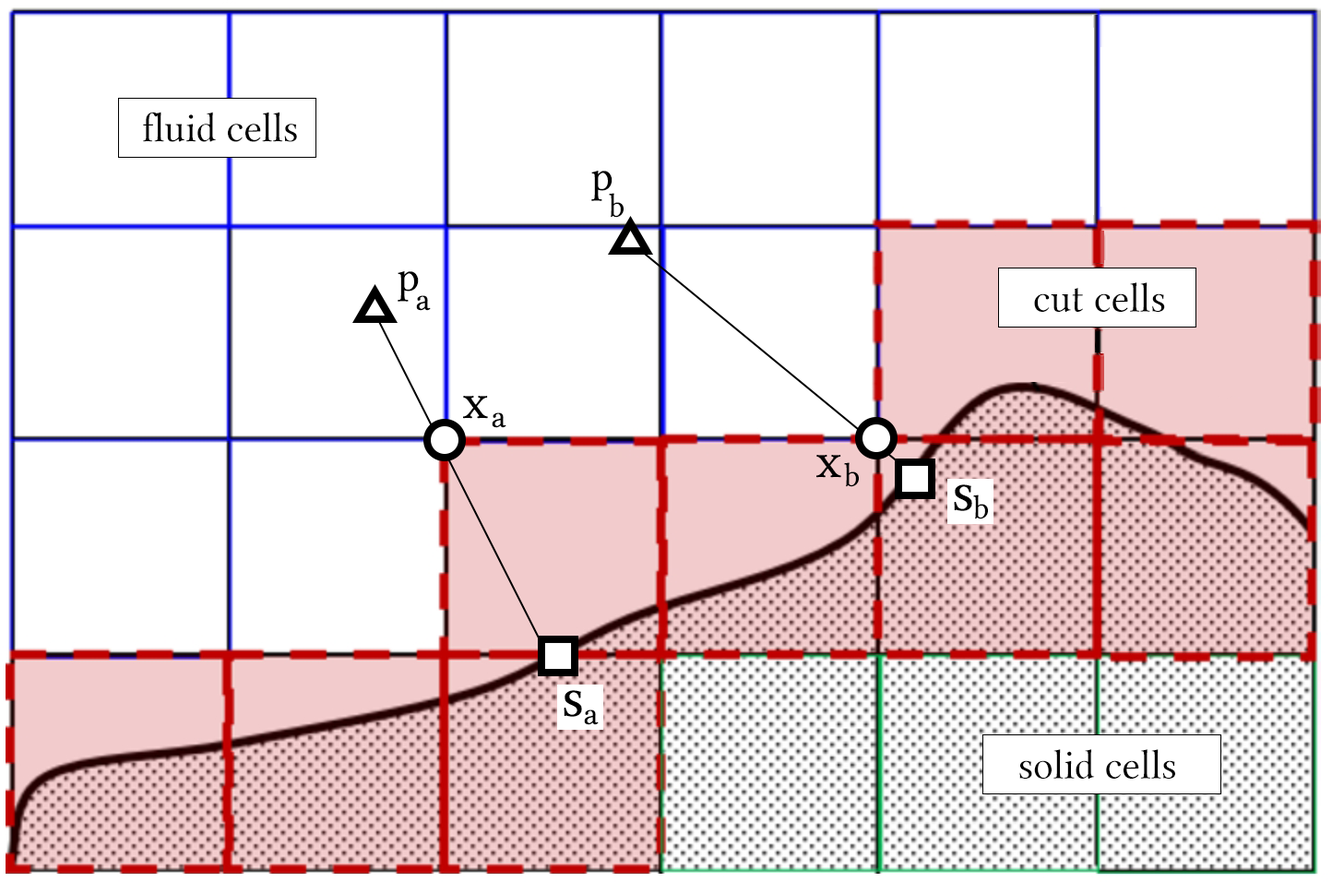
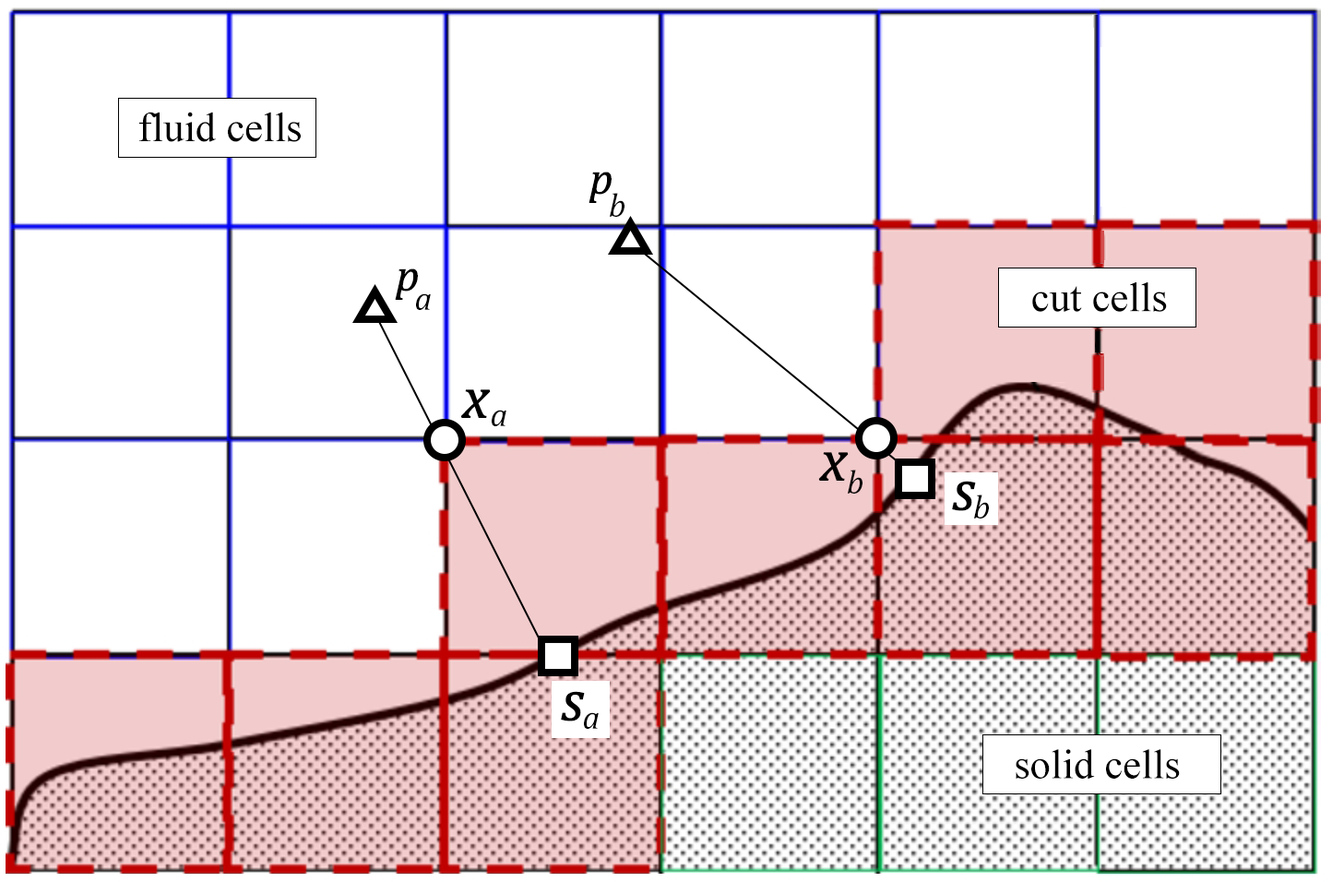
-

diff --git a/contents/c4_auto_boundary.tex b/contents/c4_auto_boundary.tex
@@ -1,8 +1,9 @@
-\chapter{更加通用的高精度流体仿真方法}
+\chapter{高精度多分辨率介观流体仿真方法}
 \label{chap:sig23}
-我们在上一章中已经描述了可以处理复杂几何边界的LBM方法，其高效、灵活的特点使其非常适合于图形学与视觉动画领域。而还有许多领域需要更精准的流体仿真，其中的一个典型流域就是实验流体力学中的风洞实验。风洞实验是进行空气动力实验最常用、最有效的工具，在发现空气动力学新现象、揭示流动机理、研制新型飞行器、评估飞行器的性能等方面发挥了极其重要的作用。自然，通过计算机流体仿真替代实际风洞实验是非常诱人的。但是对于这一目标，上一章所描述的方法并不能满足要求，其中有几个原因。
+我们在上一章中已经描述了可以处理复杂几何边界的LBM方法，其高效、灵活的特点使其非常适合于图形学与视觉动画领域。而还有许多领域需要更精准的流体仿真，其中的一个典型流域就是实验流体力学中的风洞实验。风洞实验是进行空气动力实验最常用、最有效的工具，在发现空气动力学新现象、揭示流动机理、研制新型飞行器、评估飞行器的性能等方面发挥了极其重要的作用。自然，通过计算机流体仿真替代实际风洞实验是非常诱人的。虽然现有的N-S求解方法可以进行精准物理量计算，但在实际操作中，绝大部分计算都需要通过求解稳态流获得，因为N-S方法求解瞬态流的效率很低，很难大规模应用于瞬态流。但是瞬态流仿真不仅对于视觉动画是必要的，对于高精度声场或表面压力变化求解等，也是不可或缺的。
 
-第一是，第~\ref{chap:siga21} 章所描述的混合方法虽然高效，但在真实的风洞实验中，物体周围的边界层已经非常薄，远小于网格大小，从而在网格层面假设速度是线性的已经不够精确。第二，在这样的尺度下，我们已经无法单纯地依靠提高分辨率，以解决这一问题，而必须依赖于多分辨率网格，在上一章中的方法并没有涉及相关的处理。第三，对于工业应用，碰撞模型等LBM的核心算法，对结果也有着至关重要的影响，而这一点在上一章中也未有足够的讨论。所以在这一章中我们将介绍一个更加通用的高精度流体仿真方法，并更专注于一些实际工业产品设计与验证等应用。更具体地，我们尝试将现实中工业产品设计中非常常见的风洞实验，通过流体仿真的形式数字化。所以在下文中，我们也可将本章中描述的方法称为基于LBM的虚拟风洞测试系统。这个目标使我们不只局限于边界处理等方法本身，还需要整体的仿真框架配合。从而在本章中，我们将更为整体地描述整个仿真框架。当然同时我们也可以将这一系列方法应用在图形学中，相关的结果将在第~\ref{chap:results} 章中展示。
+上一章中所描述的方法虽然可以高效地完成瞬态流求解，但是其并不能满足在这些领域对精度的要求，其中有几个原因。
+第一，第~\ref{chap:siga21} 章所描述的混合方法虽然高效，但在真实的风洞实验中，物体周围的边界层已经非常薄，远小于网格大小，从而在网格层面假设速度是线性的已经不够精确。第二，在这样的尺度下，我们已经无法单纯地依靠提高分辨率，以解决这一问题，而必须依赖于多分辨率网格，在上一章中的方法并没有涉及相关的处理。第三，对于工业应用，碰撞模型对结果在精度、稳定性与收敛性上有着至关重要的影响，而这一点在上一章中也未有足够的讨论。所以在这一章中我们将介绍一个高精度多分辨率介观流体仿真方法，并更专注于一些实际工业产品设计与验证等应用。更具体地，我们尝试将现实中工业产品设计中非常常见的风洞实验，通过流体仿真的形式数字化。所以在下文中，我们也可将本章中描述的方法称为基于LBM的虚拟风洞测试系统。这个目标使我们不只局限于边界处理等方法本身，还需要整体的仿真框架配合。从而在本章中，我们将更为整体地描述整个仿真框架。当然同时我们也可以将这一系列方法应用在图形学中，相关的结果将在第~\ref{chap:results} 章中展示。
 
 % Sec 4.1
 \section{背景与动机}
@@ -18,7 +19,7 @@
 
 虽然LBM已经在许多的验证实验中取得了不错的结果，但在一些比较有挑战性的计算问题上 (如球的阻力危机、复杂几何的物理量计算)，依然有一定的误差。而从方法上。首先针对于碰撞模型，我们在第~\ref{sec:collision_selection} 节中已经讨论了碰撞模型的选择问题。在超高雷诺数高分辨率仿真中，自适应中心矩模型并不能保证稳定。相比自适应中心矩模型，累积量碰撞模型在理论上有着一定的稳定性与精度优势。但现有的累积量模型也存在高阶松弛系数难以确定的问题。所以通过一定的方式确定累积量模型的高阶松弛系数可以进一步提升累积量碰撞模型的能力，进而提升整体仿真的精度与稳定性。
 
-其次，对于边界处理，为了捕捉超高雷诺数环境下的边界层，我们认为至少二阶精度的边界处理是必要的，如插值反弹边界。但在实际测试中，具体的构造形式仍然对边界的精度有很大影响~\citep{Chen-2021-b}。我们认为通过更好地构造单点插值边界处理的形式，边界处理的精度也可以进一步提升。
+其次，对于边界处理，为了捕捉超高雷诺数环境下的边界层，我们认为至少二阶精度的边界处理是必要的，如插值反弹边界。并且由于计算资源与时间的限制，分辨率不可能无限制地提升。基于现有的硬件资源，在超高雷诺数下，令网格小于边界层厚度是十分困难的。这种情况下单点插值反弹边界因为求解的局部性，更适合处理处理这样的情况。但在实际测试中，单点插值反弹边界具体的构造形式仍然对边界的精度有很大影响~\citep{Chen-2021-b}。我们认为通过更好地构造单点插值边界处理的形式，边界处理的精度也可以进一步提升。
 
 最后，为了在有限的计算资源下能实现高分辨率仿真，多分辨率网格是必要的。然而目前要构造多分辨率网格，依然需要耗费很多人工的工作。虽然有工作介绍了一些自动化网格构建的标准~\citep{THORIMBERT2022101864}，但是面向复杂几何与高精度物理量计算的自动网格构造方法仍然没有被充分讨论过。自动的多分辨率网格构造对提升整个方法的易用性是十分关键的。
 
@@ -28,16 +29,16 @@
 
 我们的系统相比于现有的LBM主要包含以下四个方面的改进：
 \begin{itemize}
-	\item 我们对累积量碰撞模型通过应用局部熵值的最大化的原则进行了改进。改进后的碰撞模型在精度上有所提升，并可在$10^8$级别的雷诺数下保持稳定； 
-	\item 我们提出了一个新的单点插值反弹边界来处理静态与动态物体边界，可以更精准地求解边界层流场；
-	\item 我们提出了一个多分辨率网格构建算法，以自动且灵活地构建多分辨率网格，该方法可以在不需花费过多人工前处理的情况下，完成高分辨率流体仿真；
-	\item 我们还提出了一系列的GPU优化，进一步提升运算效率。
+	\item 我们对累积量碰撞模型通过应用局部熵值的最大化的原则进行改进。改进后的碰撞模型在精度上有所提升，并可在$10^8$级别的雷诺数下保持稳定； 
+	\item 我们提出一个新的单点插值反弹边界来处理静态与动态物体边界，可以更精准地求解边界层流场；
+	\item 我们提出一个多分辨率网格构建算法，以自动且灵活地构建多分辨率网格，该方法可以在不需花费过多人工前处理的情况下，完成高分辨率流体仿真；
+	\item 我们还提出一系列的GPU优化，进一步提升运算效率。
 \end{itemize}
 
 我们将在下面依次介绍这四部分内容。
 
 \subsection{累积量碰撞模型的高阶松弛系数优化}
-在碰撞过程中，高阶松弛系数对仿真 (尤其是湍流仿真) 有着很大的影响。\citet{Li-2020} 讨论了在中心矩碰撞方法中，进行高阶松弛系数优化的方法。作者通过回归方法，自适应地调整参数，降低了数值色散和耗散误差，提高了数值精度。于是我们希望同样将高阶松弛系数的优化引入累积量碰撞模型中。由于累积量模型的空间变换是非线性的，我们无法直接应用~\citep{Li-2020} 中的回归方法，或~\citep{Kramer-2019} 中的熵优化方法。但是，我们可以通过一定的推导，将~\citep{Kramer-2019} 中的熵优化方法推广至累积量碰撞模型中。下面我们介绍推导过程。
+在碰撞过程中，高阶松弛系数对仿真 (尤其是湍流仿真) 有着很大的影响，但在累积量模型中，4阶及更高阶的松弛系数并没有有效的约束。一个自然的想法是将现有的一些高阶松弛系数优化方法引入累积量模型，从而进一步提升其精度与稳定性。我们在第~\ref{sec:background_acmmrt} 节中讨论了一些典型的高阶松弛系数优化的方法，但是由于累积量模型的空间变换是非线性的，我们无法直接应用~\citep{Li-2020} 中的回归方法，或~\citep{Kramer-2019} 中的熵优化方法。所以在本节中，我们通过一定的推导，将~\citep{Kramer-2019} 中的熵优化方法推广至累积量碰撞模型中。下面我们介绍推导过程。
 
 % 首先，我们先介绍熵优化的基本思想。分布函数的平衡态$f^\text{eq}_i$可以使熵函数$H(f_i)$取得最大值 (在密度、动量保持不变的前提下)。该熵函数$H(f_i)$定义为
 % \begin{equation}
@@ -52,7 +53,7 @@
 % \end{equation}
 % 该式为$H(\bm{f})$在全局平衡态$f_i^{\mathrm{eq}}(\rho=1, \mathbf{u}=0)=\omega_i$处的泰勒展开。
 
-我们回顾，在分布函数$\bm{f}\!=\!\{f_i\}$与中心矩$\bm{m}\!=\!\{m_i\}$之间存在线性变换关系：$\bm{f}\!=\!\bm{T}\bm{m}$。但与中心矩变换不同，累积量变换是非线性的，所以在累积量碰撞模型中应用熵优化依然是非常复杂的。不过我们通过仔细观察后，可以发现在中心矩$m_{\alpha\beta\gamma}$与累积量$k_{\alpha\beta\gamma}$之间有着关键的联系：当阶数$p\!\leq\!3$时，累积量与中心矩是完全相等的，而高阶累积量是对应的中心矩以及其它中心矩的和 (见第~\ref{sec:cumulant} 节)。由于0-2阶的累积量在碰撞过程中需要根据物理规律来确定松弛系数，3阶累积量的松弛系数在~(\citep{Geier-2017} 中已有过优化方法，我们可以基于此推导使熵最大化的高阶累积量松弛系数的解析解。
+我们回顾，在分布函数$\bm{f}\!=\!\{f_i\}$与中心矩$\bm{m}\!=\!\{m_i\}$之间存在线性变换关系：$\bm{f}\!=\!\bm{T}\bm{m}$。但与中心矩变换不同，累积量变换是非线性的，所以在累积量碰撞模型中应用熵优化依然是非常复杂的。不过我们通过仔细观察后，可以发现在中心矩$m_{\alpha\beta\gamma}$与累积量$k_{\alpha\beta\gamma}$之间有着关键的联系：当阶数$p\!\leq\!3$时，累积量与中心矩是完全相等的，而高阶累积量是对应的中心矩以及其它中心矩的和 (见第~\ref{sec:cumulant} 节)。由于0-2阶的累积量在碰撞过程中需要根据物理规律来确定松弛系数，3阶累积量的松弛系数在~\citep{Geier-2017} 中已有过优化方法，我们可以基于此推导使熵最大化的高阶累积量松弛系数的解析解。
 
 我们用$\bm{k}_l=\{k_l, l\!\in\!\mathcal{L}\}$表示3阶及以下的累积量，如上述，这些累积量的松弛系数是已知的。
 接下来我们可以将剩余的累积量，即4到6阶的，表示为$\bm{k}=\{k_h, h\!\in\!\mathcal{H}\}$。那么，伪熵的最大化问题可以被写作
@@ -103,9 +104,9 @@
 \end{equation}
 至此，我们得到了D3Q27网格结构下，通过熵优化进行累积量碰撞模式进行高阶松弛系数优化的方法。该方法可以通过一个简单的线性求解得到$\bm{k}_h$，并且由于有解析解的存在，在求解的过程中并没有过高的计算代价。为了避免数值偏移，优化后的累积量要被限制于平衡态和碰撞前的数值之间。剩余的碰撞过程与第~\ref{sec:cumulant} 节中的描述一致。
 
-\subsection{单点插值反弹边界处理}
-\paragraph{静态边界处理}
-\begin{figure}[htb]
+在引入熵优化之前，碰撞过程的唯一约束是维持质量与动量的守恒。熵优化为碰撞过程提供了额外的约束，使其更符合物理规律~\citep{Tang-2022}。同时熵优化在介观上使碰撞后的分布函数更加贴近平衡态，使得仿真更加稳定。这与我们的数值测试结果大致相符。我们使用熵优化后的累积量碰撞模型对流体流过光滑球的情况进行数值测试，结果显示，当雷诺数较低时，我们的方法可以更贴近测试中的理论值，而雷诺数较高的时候，可以减少数值误差带来的扰动，具体测试见第~\ref{sec:4_comp} 节。
+
+\begin{figure}[tb]
   \centering
     \includegraphics[width=0.6\columnwidth]{figures/boundary.png}
   \bicaption[固体附近的边界处理]{固体附近的边界处理。对于切削网格点 (图中标为橘色)，它们的未知分布函数必须要通过边界处理决定。图中黄色点为固体内部点，青色点为流体点。对于$\bm{x}_b$点，$q$表达该点沿$\bm{c}_i$方向到边界的归一化距离，其中$\bm{c}_{\bar{i}}$为$\bm{c}_i$的反方向。}{Boundary treatment near solid object. For ``cut-cell'' boundary nodes marked in orange, their unknown distribution functions must be determined through boundary schemes instead of the regular streaming. Yellow nodes mark nodes inside the solid while cyan nodes are fluids nodes. Our boundary treatment for a node $\bm{x}_b$ uses the normalized distance $q$ to the boundary surface along a link direction of $\bm{c}_i$ with its inverse direction denoted as $\bm{c}_{\bar{i}}$.}
@@ -119,6 +120,8 @@
 	\label{img:bnd_comp}
   \end{figure}
 
+\subsection{单点插值反弹边界处理}
+\paragraph{静态边界处理}
 在虚拟风洞的绝大多数情况中，目的都是对某个物体进行气动的性能测试。所以在虚拟风洞的应用中，边界处理的重要性是不言而喻的。
 我们在第~\ref{sec:boundary_treatment} 节中已经讨论了简单反弹边界和插值反弹边界的形式。其中简单反弹边界虽然构造形式非常简单，但是在边界形状复杂时，一般只有一阶精度。从而在计算固体受力时，误差及波动是非常剧烈的 (见图~\ref{img:bnd_comp} 中展示的风在高雷诺数下吹过球时，球的阻力系数$C_\text{d}$变化)。
 插值反弹边界~\citep{Bouzidi-2001} 与其之后的变体~\citep{Yu-2003, Ginzburg-2003, Chun-2007} 则可以使边界求解的精度达到二阶或更高。然而，这些边界处理方法均需要相邻点的参与，使得计算不再完全局部。由于GPU并行计算中，不连续数据访问对并行效率有很大影响，这样的边界处理在GPU计算上的效率有所降低。此外，当边界点周围均为边界时，找不到相邻点会使这样的边界处理方法失效。
@@ -156,12 +159,14 @@ f_i(\bm{x}_b, t\!+\!1) &= f^\text{eq}_i(\bm{x}_b, t\!+\!1) + f^\text{neq}_{i}(\b
 &= \frac{1}{1\!+\!q}f_{i}^\text{eq}(\bm{u}_w(t), \rho_b(t)) + \frac{q}{1\!+\!q}f^{*}_{i}(\bm{x}_b, t) + f^\text{neq}_{\bar{\imath}}(\bm{x}_b, t).\nonumber
 \end{align}
 
+在避免了平衡态构建中的数值截断后，我们新的单点插值反弹边界方法可以在维持局部计算的优势的同时，更加精准地求解湍流边界层。这可以在超高雷诺数仿真中有效提升物理量计算的精度。在第~\ref{sec:4_comp} 节中，我们展示该方法与现有方法的定性对比。在第~\ref{sec:result_industrial} 节中，我们展示一系列基于我们新的边界处理得到的仿真结果，及与实验的定量对比，进一步验证我们方法的精度。
+
 \paragraph{动态耦合}
 虚拟风洞中也需要一部分动态的单向耦合，如汽车仿真时轮胎的旋转。
 之前的LBM通常结合格点重填与反弹边界条件~\citep{Tao-2016}，或使用浸没边界法~\citep{Li-2016, Li-2020}进行动态耦合。
 但格点重填结合反弹边界条件的方法在高雷诺数仿真中会在边界周围产生不正常的速度。而浸没边界法虽然更容易实现，但因为只有一阶精度，则达到同样精度需要更高的分辨率进行仿真，从而消耗更多的资源。
 为了保证在薄边界层上保证更高的精度，在动态耦合时，我们依然应用上述的静态边界处理方法，不同点是现在各个切削速度方向的$\bm{u}_w$都需要求解。为了避免格点重填，我们依然使用浸没的模式来处理边界，即所有的格点我们都认为是流体点，没有固体点。当然我们注意到，要在每个时间步都进行求交并求解边界的速度，通常需要进行层级搜索~\citep{Karras-2012}，而当分辨率非常高时，在GPU上进行这样的操作非常耗时。
-于是我们提出了相应的GPU实现，以减轻求交与动态耦合的计算开销。这些算法我们在第~\ref{sec:sig23_alg_optimal} 节中介绍。
+于是我们提出相应的GPU实现，以减轻求交与动态耦合的计算开销。这些算法我们在第~\ref{sec:sig23_alg_optimal} 节中介绍。
 
 \paragraph{仿真域边界处理}
 在固体边界之外，还有一些边界也需要进行处理，其中一类就是仿真域边界。仿真域的边界同样对仿真得到的物理量有很大影响。我们在实现时使用了滑移边界条件 (slipping boundary conditions) 来处理入口与出口之外的仿真域边界。虽然有多种方法可以实现滑移边界~\citep{Kruger-2016}，但这些方法的精度不足以在强湍流中准确求解仿真域边界处的流体，并会对物体附近的流体产生影响。于是我们需要扩大仿真域来减轻其影响，但这样会额外增加仿真的时间和存储成本。
@@ -189,13 +194,16 @@ f_i(\bm{x}_b, t\!+\!1) &= f^\text{eq}_i(\bm{x}_b, t\!+\!1) + f^\text{neq}_{i}(\b
 \end{equation}
 注意因为我们使用了浸没的思想，所以所有的切削网格点都应被视为边界点。
 
+\paragraph{讨论}
+值得讨论的一点是，我们在地面处理上使用了壁面函数，而在物体边界上我们没有采用。很关键的一个原因是，壁面函数本质上是一个经验函数，而与平整的地面不同，物体边界可能是任意几何，而壁面函数的建模很难适用于任意复杂几何形状。此外，宏观量的插值不仅在计算上提升了显存的吞吐量 (需要访问相邻点)，降低了效率，在复杂几何表面还会遇到没有有效插值点的问题，比如窄缝中的格点。最后，从宏观量获得介观量的方法，也只能视为一个近似。这些问题的叠加使得我们不在处理物体边界时采用壁面函数。我们认为应用于LBM的壁面函数有可以改进的方向，比如直接从介观层面构造壁面函数而非从宏观层面构造，来规避这些问题，以实现更高精度的边界处理。但这样的方法超出了本文的讨论范围，所以在此不再深入讨论。
+
 \subsection{多分辨率仿真}
 \label{sec:multi-res}
 如果我们在单分辨率网格上应用上述的算法，对于图形学领域的应用应该足够。因为一般图形学中的物体模型较为简单，且我们只需捕捉视觉现象。但应用于工程领域，虚拟风洞需要被应用至非常大的场景 (一般对于$4m$左右长度的汽车模型需要$40m\times20m\times20m$的仿真域)，且几何模型的精度需要有$3mm$或更高的解析度，以捕捉到足够小的流体特征。这些特征也许对湍流本身的视觉效果来说没有明显改变，但是它们对物理量的大小有关键的影响。使用单分辨率网格进行这样高分辨率的仿真无论从仿真时间或内存和显存的占用考虑，都是不切实际的。所以显然多分辨率网格在工业领域流体仿真应用中是不可或缺的~\citep{Hou-2019,Aultman-2022,Romani-2022}。
 
 然而，我们已经讨论过，许多传统的基于有限体积法的N-S求解器均需要非结构化网格。对于工业精度的几何模型，构建这样的网格是十分耗时的。虽然针对非结构化网格有自动化的网格构建方法，但是由于模型的高复杂性，网格中产生空洞或尖角的情况依然无法避免，这些会导致FVM的求解最后无法收敛。而对模型的检查、修复需要专业工程师的人工努力，这对实际工业设计中的工作效率有很大影响。
 
-在LBM的文献中，多分辨率网格方法一般都基于八叉树的数据结构~\citep{EitelAmor-2013,Hasert-2014}，但是要在GPU上完成高效且可扩展的实现是十分复杂的~\citep{Schornbaum-2016, Schornbaum-2018}。而我们提出了新的全自动网格构建算法，以支持十分复杂的几何模型与更简单、高效的GPU实现。下面我们描述该算法的具体过程。
+在LBM的文献中，多分辨率网格方法一般都基于八叉树的数据结构~\citep{EitelAmor-2013,Hasert-2014}，但是在GPU上，树形结构十分不利于GPU的访存效率，要将这种结构高效且可扩展地实现在GPU上是十分复杂的~\citep{Schornbaum-2016, Schornbaum-2018}。而我们提出新的全自动网格构建算法，以支持十分复杂的几何模型与更简单、高效的GPU实现。下面我们描述该算法的具体过程。
 
 \paragraph{多分辨率网格构建}
 自动的网格细化一般都需要基于一定的标准来指导对哪一部分进行细化。这其中最常被考虑的应该是来流方向及网格到边界的距离~\citep{Sandoval-2012,Li-2019}。
@@ -258,6 +266,7 @@ f_i(\bm{x}_b, t\!+\!1) &= f^\text{eq}_i(\bm{x}_b, t\!+\!1) + f^\text{neq}_{i}(\b
 所以，为了实现简单，我们生成了一个简单的索引映射 (index map)，即以x-y-z顺序，直接在一个线性数组中记录所有流体点的显存索引。这样的数据布局与~\citep{Chen-2021} 中的基于块的存储方法的性能接近，但实现会简单很快。我们认为多分辨率LBM网格的数据布局也是未来可以改进的方向之一。
 
 \section{与现有方法的对比}
+\label{sec:4_comp}
 \begin{figure}[htb]
   \centering
     \includegraphics[width=0.99\columnwidth]{figures/entropy_comp.png}
@@ -292,7 +301,7 @@ f_i(\bm{x}_b, t\!+\!1) &= f^\text{eq}_i(\bm{x}_b, t\!+\!1) + f^\text{neq}_{i}(\b
 为了验证我们的方法在边界处理上的精度提升，我们依然对雷诺数$Re=400,000$时，风流过球的阻力危机进行实验。如图~\ref{img:sphere_wake_comp} 所示，与实际实验的可视化相比 (图~\ref{img:sphere_wake_comp} (c))，我们的方法可以更好地预测固体边界附近的速度场及分离点 (图~\ref{img:sphere_wake_comp} (b))。并且，在图~\ref{img:bnd_comp} 中我们展示了不同方法得到的$C_\text{d}$与时间曲线，可见我们的方法得到的结果与真实实验最为匹配。这也说明在同样分辨率下，我们的方法与~\citep{Tao-2018-b} 相比，可以在固体边界上产生更小的涡流，使得尾流可以更加收敛，以在高雷诺数湍流仿真中获得更精准的结果。
 
 \paragraph{与图形学领域中LBM方法的对比}
-虽然目前图形学领域中最前沿的LBM方法~\citep{Li-2020} 相比图形学领域中其它的流体仿真方法，已经显著地提升了精度与效率。但是对于工业领域的应用，这些方法在精度和稳定性上均有一定的差距。图~\ref{img:wei_crash_vis} 展示了一个使用图形学领域中的LBM方法进行的相对简单的气动仿真实验，即球在相对较低的雷诺数 ($Re$=100,000) 下的气动仿真。该仿真使用了与其它的球的气动仿真实验一致的多分辨率网格设置，但即使在分辨率相对较高的情况下，在仿真早期便开始出现不稳定现象，以至于数值发散而无法获得结果。
+虽然目前图形学领域中最前沿的LBM方法~\citep{Li-2020} 相比图形学领域中其它的流体仿真方法，已经显著地提升了精度与效率。但是对于工业领域的应用，这些方法在精度和稳定性上均有一定的差距。图~\ref{img:wei_crash_vis} 展示了一个使用图形学领域中的LBM方法进行的相对简单的气动仿真实验，即球在相对较低的雷诺数 ($Re$=100,000) 下的气动仿真。该仿真使用了与其它的球的气动仿真实验一致的多分辨率网格设置，但即使在分辨率相对较高的情况下，在仿真早期便开始出现不稳定现象，从而最终数值发散而无法获得结果。
 
 \section{方法的局限性}
 我们的方法中也有一定的局限性。
@@ -301,9 +310,9 @@ f_i(\bm{x}_b, t\!+\!1) &= f^\text{eq}_i(\bm{x}_b, t\!+\!1) + f^\text{neq}_{i}(\b
 最后，LBM求解器与N-S求解器相比，通常需要更多的格点数与内存占用来达到相同的精度 (虽然LBM的效率要高得多)。如何减少LBM的内存消耗也是非常值得研究的方向。
 
 \section{总结}
-在本章中，我们提出了一个多分辨率的LBM流体仿真框架，以高效且准确地构建一个虚拟风洞测试系统，以评估模型的气动特性。
-同时，我们的方法还弥合了CG与CFD领域中的方法差异。虽然CFD领域中不断在精度上对方法进行改进 (如更精准的碰撞模型与边界处理方法)，但对求解器之外的一些重要方面，CFD领域甚少关注，如自动的多分辨率网格构建、高效的几何前处理与GPU实现等。这些在工业应用中也是十分关键的。而CG领域中，相比目前广泛使用的N-S求解器，通过使用我们的方法可以更简单、高效地完成湍流仿真与一些复杂的流体现象，这在之前的CG应用中是经常缺失的。
-我们的方法基于现有CG与CFD领域中最先进的方法，在精度和效率上有所提升。这使得我们的方法可以不仅应用于视觉特效中的复杂流体仿真，也可以应用于如汽车、飞机、建筑等的设计、预览和评估，并通过快速的气动特性的反馈与分析，加速各个过程。
+在本章中，我们提出了一个多分辨率的LBM流体仿真框架，以高效且准确地构建一个虚拟风洞测试系统，以评估模型的气动特性。我们的方法基于现有CG与CFD领域中最先进的方法，在精度和效率上有所提升。
+同时，我们的方法还弥合了CG与CFD领域中的方法差异。虽然CFD领域中不断在精度上对方法进行改进 (如更精准的碰撞模型与边界处理方法)，但对求解器之外的一些重要方面，CFD领域甚少关注，如自动的多分辨率网格构建、高效的几何前处理与GPU实现等。这些在工业应用中是十分关键的。而CG领域中，相比目前广泛使用的N-S求解器，使用我们的方法可以更简单、高效地完成湍流仿真与一些复杂的流体现象。并且，即使从视觉层面，现有图形学方法对很多现象的复现能力也较为有限。随着精度的提升，我们的方法可以对一些极具挑战性的物理现象，如阻力危机现象，获得在视觉上较为贴近实际物理动态的仿真结果。而通过验证实验，我们也展示了我们的方法在定量的物理量计算上的能力。
+这使得我们的方法可以不仅应用于视觉特效中的复杂流体仿真，也可以应用于如汽车、飞机、建筑等的设计、预览和评估，并通过快速的气动特性的反馈与分析，加速各个过程。
 
 % 基于我们的工作，可以进行一些后续的工作。
 % 首先，我们目前只处理了单向耦合，以处理虚拟风洞实验中最常见的场景。但增加对双向耦合的支持可以使我们的方法更加灵活，对实际工程与动画制作都有一定的应用价值。

diff --git a/contents/c5_caa.tex b/contents/c5_caa.tex
@@ -4,7 +4,7 @@
 在本章中我们讨论将本文中介绍的流体仿真技术扩展应用至不同领域时，一些值得注意的要点，及所需的一些后处理技术。
 
 \section{应用于视觉动画}
-在视觉动画中，我们主要需求真实感的烟雾渲染。而这一过程所需的烟雾数据一般为烟雾的密度场 (表示各个位置烟雾的浓淡)，而我们通过仿真得到的是流体的速度场，这自然需要模拟一个烟雾的传播 (advection) 过程。比较常见的传播方法是欧拉方法，即基于网格的。但是这有诸多的问题，其中最重要的一点是湍流仿真中有非常多的高频信号，而网格的空间采样频率很难捕捉到这些信号~\cite{bridson2015fluid}，以至于传播得到的烟雾十分平滑，失去湍流的特征。而粒子则不受这一限制。对于一个被传播的物理量$q$，粒子的传播方程$Dq/Dt=0$表明粒子上所携带的值不会受到任何的滤波或信息丢失，十分适合我们的需求。所以我们在这里介绍一种通过粒子与网格的混合方法生成烟雾密度场的方法。该方法主要分为三个部分：粒子的生成、粒子的传播、粒子到网格的转换。
+在视觉动画中，我们主要需求真实感的烟雾渲染。而这一过程所需的烟雾数据一般为烟雾的密度场 (表示各个位置烟雾的浓淡)，而我们通过仿真得到的是流体的速度场，这自然需要模拟一个烟雾的传播 (advection) 过程。比较常见的传播方法是欧拉方法，即基于网格的。但是这有诸多的问题，其中最重要的一点是湍流仿真中有非常多的高频信号，而网格的空间采样频率很难捕捉到这些信号~\cite{bridson2015fluid}，从而使得传播得到的烟雾十分平滑，失去湍流的特征。而粒子则不受这一限制。对于一个被传播的物理量$q$，粒子的传播方程$Dq/Dt=0$表明粒子上所携带的值不会受到任何的滤波或信息丢失，十分适合我们的需求。所以我们在这里介绍一种通过粒子与网格的混合方法生成烟雾密度场的方法。该方法主要分为三个部分：粒子的生成、粒子的传播、粒子到网格的转换。
 
 \paragraph{粒子的生成}
 首先，我们先在场中确定一块区域，作为粒子的发射端。我们需要对该区域进行采样以真正决定粒子的初始位置。出于不同的需求，可能该区域不同位置的初始烟雾密度会不同，那么我们需要根据密度来进行采样。假如密度是均匀的，我们只需要进行均匀的随机采样。接下来我们要考虑一次性注入与连续注入两种情况。如果是一次性注入，我们只需要确定场中存在的粒子数量$N$，并一次性采样完毕，进行传播得到烟雾的动态。而连续注入时一个需要被确定的量是发射速率 (emission rate) $d$$N/dt$。即每一个时间步长，我们都应该发射$n=\Delta t \text{ }$$d$$N/dt$个粒子。我们要注意的是，连续注入时需要避免每个时间步长粒子的初始化位置相同的情况。那样会形成多条脉线 (streakline)，而不是形成一个烟雾一样的连续体。
@@ -31,7 +31,7 @@
 
 求解该方程最简单也是代价最小的时间积分方法即为前向欧拉 (forward Euler) 方法：
 $\mathbf{x}^{n+1}=\mathbf{x}^{n}+\Delta t \, \mathbf{u}(\mathbf{x}^{n})$,
-然而该方法只有一阶的精度。在时间步长不够小时，这一方法会带来很大的误差。而这一误差会随时间累积，最终使数值解与真实解偏差巨大。更精准的时间积分方法，如龙格-库塔 (Runge-Kutta，RK) 方法，可以得到更高阶精度的解。如二阶精度的龙格-库塔方法 (RK2) 可以写作
+然而该方法只有一阶的精度。在时间步长不够小时，这一方法会带来很大的误差。而这一误差会随时间累积，最终使数值解与真实解偏差巨大。更精准的时间积分方法，如龙格-库塔 (Runge-Kutta, RK) 方法~\cite{doi:10.1142/S0218127492000641}，可以得到更高阶精度的解。如二阶精度的龙格-库塔方法 (RK2) 可以写作
 \begin{align}
     \begin{split}
     \mathbf{x}^{n+1 / 2} & =\mathbf{x}^n+\frac{1}{2} \Delta t \, \mathbf{u}(\mathbf{x}^n), \\
@@ -86,15 +86,15 @@ k_3 & =\mathbf{u}(\mathbf{x}^n+\frac{3}{4} \Delta t \, k_2), \\
   \begin{figure}[!htb]
     \centering
         \includegraphics[width=0.9\columnwidth]{figures/pressure_projection.png}
-    \bicaption[物体表面物理量投影的示意图]{物体表面物理量投影的示意图。图中蓝色网格为流体网格，红色为切削网格，绿色为固体网格，加点的区域为固体覆盖的区域。对于物体表面上的$s_a$与$s_b$点，如果直接从流体网格点插值物理量，则$x_a$与$x_b$点分别有着最大的影响，因为它们分别是沿法向投影后距离$s_a$与$s_b$点最近的流体点。然而因为$x_a$与$x_b$点到物体边界的距离差别较大，这两个点的物理量也会有很大区别，造成物体表面物理量的不连续。而沿着$s_a$与$s_b$点法向向外走一定距离后，分别从$p_a$与$p_b$点插值物理量，可以减轻这一问题。}{Schematics of physical quantities projection to surface. The blue, red and green cells in the firgue represent fluid, cut and solid cells, respectively. The dotted area is covered by solid object. For point $s_a$ and $s_b$ on object surface, if the physical quantities are directly interpolated from the nodes, node $x_a$ and $x_b$ would have the biggest impact, because they are the closest nodes to $s_a$ and $s_b$ after being projected to the surface along the normals, respectively. However, since node $x_a$ and $x_b$ have different distance to the object surface, resulting in largely different physical quantities which is discontinuous on surface. While interpolating from $p_a$ and $p_b$, which are points away from surface along their normals with a fixed distance can lift the problem.}
+    \bicaption[物体表面物理量投影的示意图]{物体表面物理量投影的示意图。图中蓝色网格为流体网格，红色为切削网格，绿色为固体网格，加点的区域为固体覆盖的区域。对于物体表面上的$\mathbf{s}_a$与$\mathbf{s}_b$点，如果直接从流体网格点插值物理量，则$\mathbf{x}_a$与$\mathbf{x}_b$点分别有着最大的影响，因为它们分别是沿法向投影后距离$\mathbf{s}_a$与$\mathbf{s}_b$点最近的流体点。然而因为$\mathbf{x}_a$与$\mathbf{x}_b$点到物体边界的距离差别较大，这两个点的物理量也会有很大区别，造成物体表面物理量的不连续。而沿着$\mathbf{s}_a$与$\mathbf{s}_b$点法向向外走一定距离后，分别从$\mathbf{p}_a$与$\mathbf{p}_b$点插值物理量，可以减轻这一问题。}{Schematics of physical quantities projection to surface. The blue, red and green cells in the firgue represent fluid, cut and solid cells, respectively. The dotted area is covered by solid object. For point $\mathbf{s}_a$ and $\mathbf{s}_b$ on object surface, if the physical quantities are directly interpolated from the nodes, node $\mathbf{x}_a$ and $\mathbf{x}_b$ would have the biggest impact, because they are the closest nodes to $\mathbf{s}_a$ and $\mathbf{s}_b$ after being projected to the surface along the normals, respectively. However, since node $\mathbf{x}_a$ and $\mathbf{x}_b$ have different distance to the object surface, resulting in largely different physical quantities which is discontinuous on surface. While interpolating from $\mathbf{p}_a$ and $\mathbf{p}_b$, which are points away from surface along their normals with a fixed distance can lift the problem.}
     \label{img:pressure_projection}
   \end{figure}
 
 同时，因为我们需要的仿真输出是不同的物理量，这里使用的后处理方式也和上述不同。除了将数值直接输出外，为了使结果看起来更加直观，很多时候会将物理量进行颜色映射后以图片或动画的形式展现。将仿真域中的物理量以截面的形式提取出来，之后通过颜色映射进行后处理，是一个比较直接的过程。而对于物体表面的物理量 (如物体表面的压力)，这并不是一个直接的过程。原因是在LBM中我们使用了切削网格来处理边界，这使得在有边界存在时，切削网格部分是不完整的 (被固体覆盖的网格点是不存在的，见图~\ref{img:pressure_projection} 中红色网格)，这造成我们无法使用常规的插值方法来获取表面上点的物理量。
 
-一个简单的想法是忽略不存在的固体点，而只对物体表面点周围以某个核函数对存在的流体点进行插值。然而这也会带来问题，一个最重要的问题是在切削网格内，物体表面距其法向方向最近的切削网格点的距离也不相同。以图~\ref{img:pressure_projection} 中的情况为例，对于物体表面上的$s_a$与$s_b$点，如果直接从流体网格点插值物理量，则$x_a$与$x_b$点分别有着最大的影响，因为它们分别是沿法向投影后距离$s_a$与$s_b$点最近的流体点。然而即使在同一网格内，在高雷诺数环境下，边界层依然比网格大小要薄很多，这造成这两个点的物理量也会有很大区别。所以在投影到物体表面后会造成物理量的不连续。
+一个简单的想法是忽略不存在的固体点，而只对物体表面点周围以某个核函数对存在的流体点进行插值。然而这也会带来问题，一个最重要的问题是在切削网格内，物体表面距其法向方向最近的切削网格点的距离也不相同。以图~\ref{img:pressure_projection} 中的情况为例，对于物体表面上的$\mathbf{s}_a$与$\mathbf{s}_b$点，如果直接从流体网格点插值物理量，则$\mathbf{x}_a$与$\mathbf{x}_b$点分别有着最大的影响，因为它们分别是沿法向投影后距离$\mathbf{s}_a$与$\mathbf{s}_b$点最近的流体点。然而即使在同一网格内，在高雷诺数环境下，边界层依然比网格大小要薄很多，这造成这两个点的物理量也会有很大区别。所以在投影到物体表面后会造成物理量的不连续。
 
-为了减轻这一问题，我们不以物体表面的点为中心进行插值，而是沿着物理表面的采样点的法向向外走一定距离后，再进行插值。依然以图~\ref{img:pressure_projection} 中为例，为了获取$s_a$与$s_b$点的物理量，分别从$s_a$与$s_b$点，沿表面的法向走一定距离后，从$p_a$与$p_b$点插值物理量。这样可以避免造成因为切削网格点本身的不连续带来的投影不连续问题。
+为了减轻这一问题，我们不以物体表面的点为中心进行插值，而是沿着物理表面的采样点的法向向外走一定距离后，再进行插值。依然以图~\ref{img:pressure_projection} 中为例，为了获取$\mathbf{s}_a$与$\mathbf{s}_b$点的物理量，分别从$\mathbf{s}_a$与$\mathbf{s}_b$点，沿表面的法向走一定距离后，从$\mathbf{p}_a$与$\mathbf{p}_b$点插值物理量。这样可以避免造成因为切削网格点本身的不连续带来的投影不连续问题。
 
 \section{应用于气动声学分析}
 \begin{figure}[!htb]
@@ -104,7 +104,13 @@ k_3 & =\mathbf{u}(\mathbf{x}^n+\frac{3}{4} \Delta t \, k_2), \\
   \label{img:acoustic_problems}
 \end{figure}
 
-使用LBM进行气动声学分析是一个较为特殊的问题。虽然在第~\ref{sec:background} 节中我们已经讨论了，使用LBM进行气动声学仿真是LBM的一大优势，因为LBM可以非常高效地进行可压缩非稳态湍流求解。并且因为LBM本身求出的是弱可压过程，求解气动声与其它物理量并无区别。然而声音是由于非常微弱的气压波动导致，这种波动对精度是十分敏感的。虽然已有一些工作使用LBM进行了气动声分析，并且可以在一定程度上确定声源~\cite{doi:10.2514/6.2013-2256, doi:10.2514/1.J052365, doi:10.2514/6.2015-2993}，但同时也会产生一些错误的声源。这些问题的根本原因是，在分析气动现象时，我们观察物理量的尺度是较大的，而在分析气流导致的声音现象时，观察的尺度会小很多，此时许多之前注意不到的误差均会产生很大的影响 (见图~\ref{img:acoustic_problems})。\citet{ASTOUL2020109645} 主要讨论了两个误差的来源，分别为多分辨率网格的边界，与碰撞模型本身的精度。然而由于声波对误差的敏感性，包括物体边界与计算域边界也同样是误差的来源。我们可以认为在目前阶段看，彻底消除这样的误差是十分困难的。本文在第~\ref{sec:acoustic_results} 节中展示了通过本文所介绍的方法进行气动声分析的一些初步成果，以验证本文中的方法应用于计算气动声学的能力。而基于此，在提升气动声学分析的精度上，还可以有更多未来的工作。
+使用LBM进行气动声学分析是一个较为特殊的问题。虽然在第~\ref{sec:background} 节中我们已经讨论了，使用LBM进行气动声学仿真是LBM的一大优势，因为LBM可以非常高效地进行可压缩非稳态湍流求解。并且因为LBM本身求出的是弱可压过程，求解气动声与其它物理量并无区别。所以我们在第~\ref{chap:sig23} 章提出的高精度流体仿真方法可以直接地应用于气动声求解。然而声音是由于非常微弱的气压波动导致，这种波动对精度是十分敏感的。虽然已有一些工作使用LBM进行了气动声分析，并且可以在一定程度上确定声源~\cite{doi:10.2514/6.2013-2256, doi:10.2514/1.J052365, doi:10.2514/6.2015-2993}，但同时也会产生一些错误的声源。这些问题的根本原因是，在分析气动现象时，我们观察物理量的尺度是较大的，而在分析气流导致的声音现象时，观察的尺度会小很多，此时许多之前注意不到的误差均会产生很大的影响 (见图~\ref{img:acoustic_problems})。\citet{ASTOUL2020109645} 主要讨论了两个误差的来源，分别为多分辨率网格的边界，与碰撞模型本身的精度。然而由于声波对误差的敏感性，包括物体边界与计算域边界也同样是误差的来源。我们可以认为在目前阶段看，彻底消除这样的误差是十分困难的。本文在第~\ref{sec:acoustic_results} 节中展示了通过本文所介绍的方法进行气动声分析的一些初步成果，以验证本文中的方法应用于计算气动声学的能力。而基于此，在提升气动声学分析的精度上，还可以有更多未来的工作。
+
+在面向气动声求解时，一个值得注意的点是LBM中的单位转换。相似性原则 (law of similarity) 告诉我们，雷诺数与几何均相同的两个系统中，气动现象是类似的。所以在观察气动现象时，我们只需保证仿真的雷诺数与需求一致。雷诺数的定义为
+\begin{equation}
+  Re=\frac{LU}{\nu},
+\end{equation}
+其中$L$与$U$分别为特征长度与速度，$\nu$为运动黏度。则在LBM中，我们可以等比例地调整特征速度与运动黏度，在维持雷诺数不变的情况下调整仿真的时间步长。这样的调整经常适用于大场景的仿真，因为增大仿真的时间步长可以直接提升仿真效率。在现实世界中也经常会利用相似性原则，如在实际的风洞实验中经常会使用缩比模型进行实验，在与真实情况中的雷诺数一致的情况下，我们可以观察到类似的气动现象。但这仅适用于气动现象，在进行气动声求解时，我们需要将LBM中的声速$c_s$对应至物理空间中真实的流体声速，否则会对声音的频率产生影响。
 
 在后处理上，除了气动特征，通常我们还会记录某些采样点压力波动的时间序列，以定量地进行频谱分析。这一过程中，因为采样点也会位于物体表面，所以可以使用与上一节中所述的在物体表面取物理量时同样的处理。在获取到压力的时间序列后，通常使用加窗平均周期图法 (Welch法~\citep{1161901}) 进行频谱分析。具体来说该方法将时间信号序列分割成了多个块 (blocks)，对每个块使用周期图法 (periodogram) 进行谱密度估计后再进行平均。
 

diff --git a/contents/a_abstract.tex b/contents/a_abstract.tex
@@ -1,9 +1,9 @@
 \begin{abstract}[flattitle]
-  流体仿真技术在诸多现实领域有着重要的指导意义，同时也是计算机图形学、计算流体力学等学科中重要的研究内容。然而在大规模的复杂场景下，使用现有方法进行湍流仿真，通常需要巨大的计算资源和时间开销。如何提升高雷诺数湍流仿真的效率与精度依然是极具挑战性的问题。同时由于不同领域的侧重点不同，不同的流体仿真方法开始分化，并逐渐只被应用于特定领域，这在一定程度上限制了流体仿真方法的灵活性与应用范围。针对这一系列问题，本文在格子玻尔兹曼方法的框架下，针对不同领域的应用提出了新的介观流体仿真方法，进一步提升格子玻尔兹曼方法的精度和稳定性，同时通过自动化的前处理，与图形处理单元 (Graphics Processing Unit, GPU) 优化算法，实现湍流的准确、高效仿真，以应用于视觉动画、工业产品设计、气动声分析等多个领域，弥合不同领域间流体仿真方法的差异。本文的主要技术创新点如下：
+  流体仿真技术在诸多现实领域有着重要的指导意义，同时也是计算机图形学、计算流体力学等学科中重要的研究内容。然而在大规模的复杂场景下，使用现有方法进行瞬态湍流仿真，通常需要巨大的计算资源和时间开销。如何提升高雷诺数湍流仿真的效率与精度依然是极具挑战性的问题。同时由于不同领域的侧重点不同，不同的流体仿真方法开始分化，并逐渐只被应用于特定领域，这在一定程度上限制了流体仿真方法的灵活性与应用范围。针对这一系列问题，本文在格子玻尔兹曼方法的框架下，针对不同领域的应用提出新的介观流体仿真方法，进一步提升格子玻尔兹曼方法的精度和稳定性，同时通过自动化的前处理，与图形处理单元 (Graphics Processing Unit, GPU) 优化算法，实现湍流的准确、高效仿真，以应用于视觉动画、工业产品设计、气动声分析等多个领域，弥合不同领域间流体仿真方法的差异。本文的主要技术创新点如下：
   \begin{itemize}
-      \item 针对于复杂几何的流固耦合问题，本文提出了基于速度修正和简单反弹边界方法的混合边界方法。该方法在精度和稳定性上相比简单反弹边界方法都有所提升。并且现有的流体仿真方法中并不能很好地求解薄板、细棒等亚网格尺度物体与流体的耦合，尤其是在湍流情况下。本文提出的新的混合边界方法可以同时适用于亚网格尺度物体和正常尺度物体，展现出很强的通用性。
-      \item 本文提出更加通用的高精度流体仿真方法。针对精度要求更严格的领域，如工业产品设计，本文提出了新的单点插值反弹边界处理方法。该边界处理可以同时处理静态与动态物体，并利用单点处理提升了计算效率。同时，本文还提出了新的基于熵优化的累积量碰撞模型，该模型在极高雷诺数流体仿真中依然保持稳定，并有着相比现有方法更高的精确度。通过与现实物理实验的对比，本文验证了该套流体仿真方法有着非常高的精准度，同时维持了很高的计算效率，使其可以应用在计算机图形学、计算流体力学、计算气动声学等不同领域，成为统一的流体仿真方法。
-      \item 本文提出高效、自动化的流体仿真框架。为了使上述的流体仿真方法得到足够精确的物理量，流体仿真需要在极高的分辨率下进行，这势必要求使用非常高的分辨率构建计算网格。而目前这一个过程难以自动化完成，对于使用者来说非常繁琐冗长。本文阐述了自动化流体仿真的整体框架，其中包括了自动的计算网格构建方法与流体区域划分。该方法可以在有复杂几何的同时，完成高效的内、外流体区分及包含自动细分的多分辨率网格构建，从而支持高精度的流体仿真。
+      \item 针对于复杂几何的流固耦合问题，本文提出新的基于速度修正和简单反弹边界方法的混合边界方法。该方法在精度和稳定性上相比简单反弹边界方法都有所提升。并且现有的流体仿真方法中并不能很好地求解薄板、细棒等亚网格尺度物体与流体的耦合，尤其是在湍流情况下。本文提出的新的混合边界方法可以同时适用于亚网格尺度物体和正常尺度物体，展现出很强的通用性；
+      \item 本文提出新的高精度多分辨率介观流体仿真方法。针对精度要求更严格的领域，如工业产品设计，本文提出新的单点插值反弹边界处理方法。该边界处理可以同时处理静态与动态物体，并利用单点处理提升了计算效率。同时，本文还提出新的基于熵优化的累积量碰撞模型，该模型在极高雷诺数流体仿真中依然保持稳定，并有着相比现有方法更高的精确度。通过与现实物理实验的对比，本文验证了该套流体仿真方法有着非常高的精准度，同时维持了很高的计算效率，使其可以应用在计算机图形学、计算流体力学、计算气动声学等不同领域，成为统一的流体仿真方法；
+      \item 本文提出新的高效、自动化的流体仿真框架。为了使上述的流体仿真方法得到足够精确的物理量，流体仿真需要在极高的分辨率下进行，这势必要求使用非常高的分辨率构建计算网格。而目前这一个过程难以自动化完成，对于使用者来说非常繁琐冗长。本文阐述了自动化流体仿真的整体框架，其中包括了自动的计算网格构建方法与流体区域划分。该方法可以在有复杂几何的同时，完成高效的内、外流体区分及包含自动细分的多分辨率网格构建，从而支持高精度的流体仿真；
       \item 针对上述方法，本文提出相关的算法优化以及高效GPU实现。如快速的几何计算与其在GPU上的并行方法，以降低额外的计算消耗，优化整体的运行效率。借助现代的GPU硬件，利用本文的方法可以在几小时内完成高精度的流体仿真。
   \end{itemize}
   
@@ -17,9 +17,9 @@
   Meanwhile, due to the different focuses of different disciplines, fluid simulation methods have begun to diverge and are gradually applied only to specific fields, which limit the flexibility and application scope of fluid simulation methods to a certain extent.
   To address the aforementioned problems, in this thesis we propose a novel mesoscopic fluid simulation method under the framework of the lattice Boltzmann method for different applications, which improves the accuracy and stability of existing lattice Boltzmann method. The method can accurately and efficiently simulate turbulent flow with automated pre-processing and GPU optimization. It can be applied to computer animation, industrial product design, aeroacoustic analysis and other fields, bridging the gap in fluid simulation methods among different fields. The main technical innovations of the thesis are as follows:
   \begin{itemize}
-    \item A hybrid boundary method based on velocity correction and simple bounce-back boundary method is proposed in this thesis for fluid-structure interaction with complex geometries. This method is improved in accuracy and stability compared with the simple bounce-back method. Moreover, the existing fluid simulation methods cannot well solve the coupling between fluid and sub-grid scale objects such as thin plates and thin rods, especially in turbulent flow. Out new hybrid boundary method can be applied to both sub-grid scale objects and normal scale objects, showing strong generalization.
-    \item We propose a general-purpose fluid simulation framework with high accuracy. For fields with more stringent accuracy requirements, such as industrial product design, we propose a new single-node interpolated bounce-back boundary method. The boundary method can handle both static and dynamic objects, and the single-node algorithm can effectively improve computational efficiency. We also propose a new cumulatant collision model with entropy optimization, which is stable in extremely high Reynolds number fluid simulation, and more accurate than the existing methods. By comparing with real-world experiments, we verify that the fluid simulation method is highly accurate and efficient, so that it can be applied in different fields such as computer graphics, computational fluid dynamics, computational aeroacoustics, etc., to potentially become a unified fluid simulation method.
-    \item We propose a framework for efficient and automated fluid simulation. In order to obtain sufficiently accurate physical quantities from fluid simulation, the resolution needs to be sufficiently high, which inevitably requires a very dense mesh for computation. This process is currently very cumbersome and tedious for users. In this thesis we introduce an overall framework for automated fluid simulation at the system implementation level. It includes an automated computational mesh construction and fluid region partitioning method. The method can efficiently partition fluid into different connected components to construct adaptive multi-resolution mesh for scenes with complex geometries, enabling highly accurate fluid simulation.
+    \item A novel hybrid boundary method based on velocity correction and simple bounce-back boundary method is proposed in this thesis for fluid-structure interaction with complex geometries. This method is improved in accuracy and stability compared with the simple bounce-back method. Moreover, the existing fluid simulation methods cannot well solve the coupling between fluid and sub-grid scale objects such as thin plates and thin rods, especially in turbulent flow. Out new hybrid boundary method can be applied to both sub-grid scale objects and normal scale objects, showing strong generalization.
+    \item We propose a novel general-purpose mesoscopic fluid simulation framework with high accuracy. For fields with more stringent accuracy requirements, such as industrial product design, we propose a new single-node interpolated bounce-back boundary method. The boundary method can handle both static and dynamic objects, and the single-node algorithm can effectively improve computational efficiency. We also propose a new cumulatant collision model with entropy optimization, which is stable in extremely high Reynolds number fluid simulation, and more accurate than the existing methods. By comparing with real-world experiments, we verify that the fluid simulation method is highly accurate and efficient, so that it can be applied in different fields such as computer graphics, computational fluid dynamics, computational aeroacoustics, etc., to potentially become a unified fluid simulation method.
+    \item We propose a novel framework for efficient and automated fluid simulation. In order to obtain sufficiently accurate physical quantities from fluid simulation, the resolution needs to be sufficiently high, which inevitably requires a very dense mesh for computation. This process is currently very cumbersome and tedious for users. In this thesis we introduce an overall framework for automated fluid simulation at the system implementation level. It includes an automated computational mesh construction and fluid region partitioning method. The method can efficiently partition fluid into different connected components to construct adaptive multi-resolution mesh for scenes with complex geometries, enabling highly accurate fluid simulation.
     \item We also present relevant algorithmic optimizations as well as efficient GPU implementations in the thesis. We propose some algorithmic optimizations for the aforementioned methods, such as efficient geometry processing algorithms, to reduce computational cost. Moreover, for each of the above sections, we describe relevant GPU optimization algorithms to optimize the overall efficiency. With the help of modern GPU hardware, highly accurate fluid simulation can be accomplished in a few hours using the proposed methods.
   \end{itemize}
 

diff --git a/contents/c3_cg_boundary.tex b/contents/c3_cg_boundary.tex
@@ -1,7 +1,7 @@
-\chapter{可处理复杂几何的通用流体仿真及流固耦合方法}
+\chapter{可处理通用复杂几何的介观流体仿真及流固耦合方法}
 \label{chap:siga21}
 
-与复杂几何的流固耦合对于复杂的视觉现象仿真有很重要的作用，然而流固耦合求解也是流体仿真中最有挑战性的部分。因为流体和固体之间的相互作用对两者的运动皆有影响，从而成为一个时间上的迭代过程，这种相互作用在数值上的计算是非常复杂的。并且，在固体的形状复杂时，如有薄壳或细棒的场景中，流固耦合的计算将更为艰巨。我们这里定义的薄壳或细棒是在某一个或某两个维度上非常狭窄的物体，以至于在这些维度上，物体的大小是远小于网格的尺度的。由于薄壳或细棒的这种特性，它们的特征在网格中很难被捕捉到，以至于经常发生泄漏或穿透等现象。相对于工程应用中更广泛需求的单向流固耦合而言，与复杂几何的双向流固耦合对视觉动画更为关键。
+与复杂几何的流固耦合对于复杂的视觉现象仿真有很重要的作用，然而流固耦合求解也是流体仿真中最有挑战性的部分。因为流体和固体之间的相互作用对两者的运动皆有影响，从而成为一个时间上的迭代过程，这种相互作用在数值上的计算是非常复杂的。并且，在固体的形状复杂时，如有薄壳或细棒的场景中，流固耦合的计算将更为艰巨。我们这里定义的薄壳或细棒是在某一个或某两个维度上非常狭窄的物体，从而使得在这些维度上，物体的大小是远小于网格的尺度的。由于薄壳或细棒的这种特性，它们的特征在网格中很难被捕捉到，从而经常发生泄漏或穿透等现象。相对于工程应用中更广泛需求的单向流固耦合而言，与复杂几何的双向流固耦合对视觉动画更为关键。
 
 虽然有工作展示了薄壳~\citep{DiscreteShells,Bridson:2003} 或细棒~\citep{DiscreteRods} 的仿真，也包括它们在黏性流体~\citep{Fei-2018,Takahashi:2019,Fei-2019} 或非湍流~\citep{Azevedo-2016} 中的耦合，但亚网格物体与湍流的耦合仿真在图形学领域还未有工作展示。也有一些工作在动理学方法中使用扩散界面浸入边界法获得相比N-S方法更加稳定、高效的湍流仿真结果~\citep{Li-2018,Li-2020}，但是这些工作并在亚网格物体存在时会得到不正确的结果。
 
@@ -277,4 +277,6 @@ CG领域中的N-S方法已经发展得较为成熟，且拥有一系列不同的
 \section{总结}
 在本章中，我们提出了一个基于动理学方法的混合边界处理方法，以处理在流固双向耦合。我们的方法可以有效、统一地同时处理厚、薄物体，并可以稳定、快速地完成仿真，得到视觉上可信的结果。我们的方法充分利用了反弹边界与尖锐界面浸没边界法优点的互补性，包含双面反弹边界处理与单边的速度修正，与双向耦合所需的固体受力计算。
 我们基于边界采样点提出了高效的几何近似算法与对应的GPU并行实现，以提升整体计算效率。我们的方法在效率与精度上都超越了现有的计算机图形学中的LBM算法，并在强湍流中依然可以捕捉到正确的物理现象。
+
+基于我们方法高效、灵活的特点，我们的方法十分适用于图形学中的视觉动画制作。虽然我们展示了一些定性的物理现象复现，但是我们需要指出，若要定量地进行物理量计算，需要使用非常高的分辨率进行仿真。这势必会带来很大的内存 (及显存) 消耗。为了减轻这一问题，我们在下一章中提出高精度的多分辨率流体仿真方法，讨论面向更高精度需求应用的流体仿真框架。
 % 我们展示了我们的方法与其它方法和实际实验的对比，和一系列的仿真结果，包括不同的几何形状在流体中的单向或双向耦合仿真，及我们的方法在快速交互式设计中的应用。

diff --git a/contents/c6_results.tex b/contents/c6_results.tex
@@ -146,8 +146,9 @@ The pressure field is color-mapped over the aircraft body surface, while passive
 管道模型的包围盒大小为$1.3m\!\times\!2m\!\times\!0.83m$，仿真时使用的计算域大小为$7.84m\!\times\!12m\!\times\!4.96m$。完成6秒仿真消耗的计算时间约为0.9小时。
 通过染色的烟雾粒子进行可视化，我们可以很清楚地看到气流通过左下的入口流入管道，并从喷嘴中流出。这展示了我们的方法可以很好地对复杂形状的几何完成自动网格构建。
 
-\section{面向工业应用的仿真结果与对比}
-我们现在讨论对本文第~\ref{chap:sig23} 章中所描述的虚拟风洞系统进行的面向工业应用的测试，以验证我们方法的精度与效率。
+\section{面向工业应用与高精度视觉效果的仿真结果与对比}
+\label{sec:result_industrial}
+我们现在讨论对本文第~\ref{chap:sig23} 章中所描述的虚拟风洞系统进行的面向工业应用与高精度视觉效果的测试，以验证我们方法的精度与效率。虽然在本节我们主要展示我们的方法在工业应用上的潜力，但我们也需指出，仿真精度的提高，同时也赋予了仿真从视觉上刻画物理现象的能力。这些现象在仿真精度不足时，从视觉效果上就会形成很大的偏差。所以本节的验证对于图形学也依旧有着实用意义，这一点我们在接下来的实验中会详细说明。
 在仿真中，物体的放置位置根据场景需求而定。对于需要在空中的物体，一般我们放置在竖直方向的中间位置。在地面上的物体则会根据需求设置离地的距离 (如汽车轮胎有时需要陷入地面以弥补轮胎自身的弹性对仿真的影响)。在水平面上，一般物体都会被放置在距来流3分之1的位置 (沿来流方向)。在垂直于来流的方向上，一般物体被放在计算域中间以更好地捕捉尾流。
 整个计算域的大小一般是模型包围盒的8到10倍，图~\ref{img:domain_setup} 展示了汽车仿真的计算域场景设置。
 

diff --git a/main.tex b/main.tex
@@ -178,8 +178,8 @@
 
 \begin{publications*}
   \begin{enumerate}
-    \item Fast and versatile fluid-solid coupling for turbulent flow simulation[J]. ACM Transactions on Graphics, 2021, 40(6): 201. (发表于SIGGRAPH Asia 2021，中国计算机学会推荐国际学术会议A类)
-    \item Building a virtual weakly-compressible wind tunnel testing facility[J]. ACM Transactions on Graphics, 2023, 42(4): 125. (发表于SIGGRAPH 2023，中国计算机学会推荐国际学术会议A类)
+    \item ACM Transactions on Graphics, 2021. (发表于SIGGRAPH Asia 2021，中国计算机学会推荐国际学术会议A类，本文作者为第一作者)
+    \item ACM Transactions on Graphics, 2023. (发表于SIGGRAPH 2023，中国计算机学会推荐国际学术会议A类，本文作者为第一作者)
   \end{enumerate}
 \end{publications*}
 
